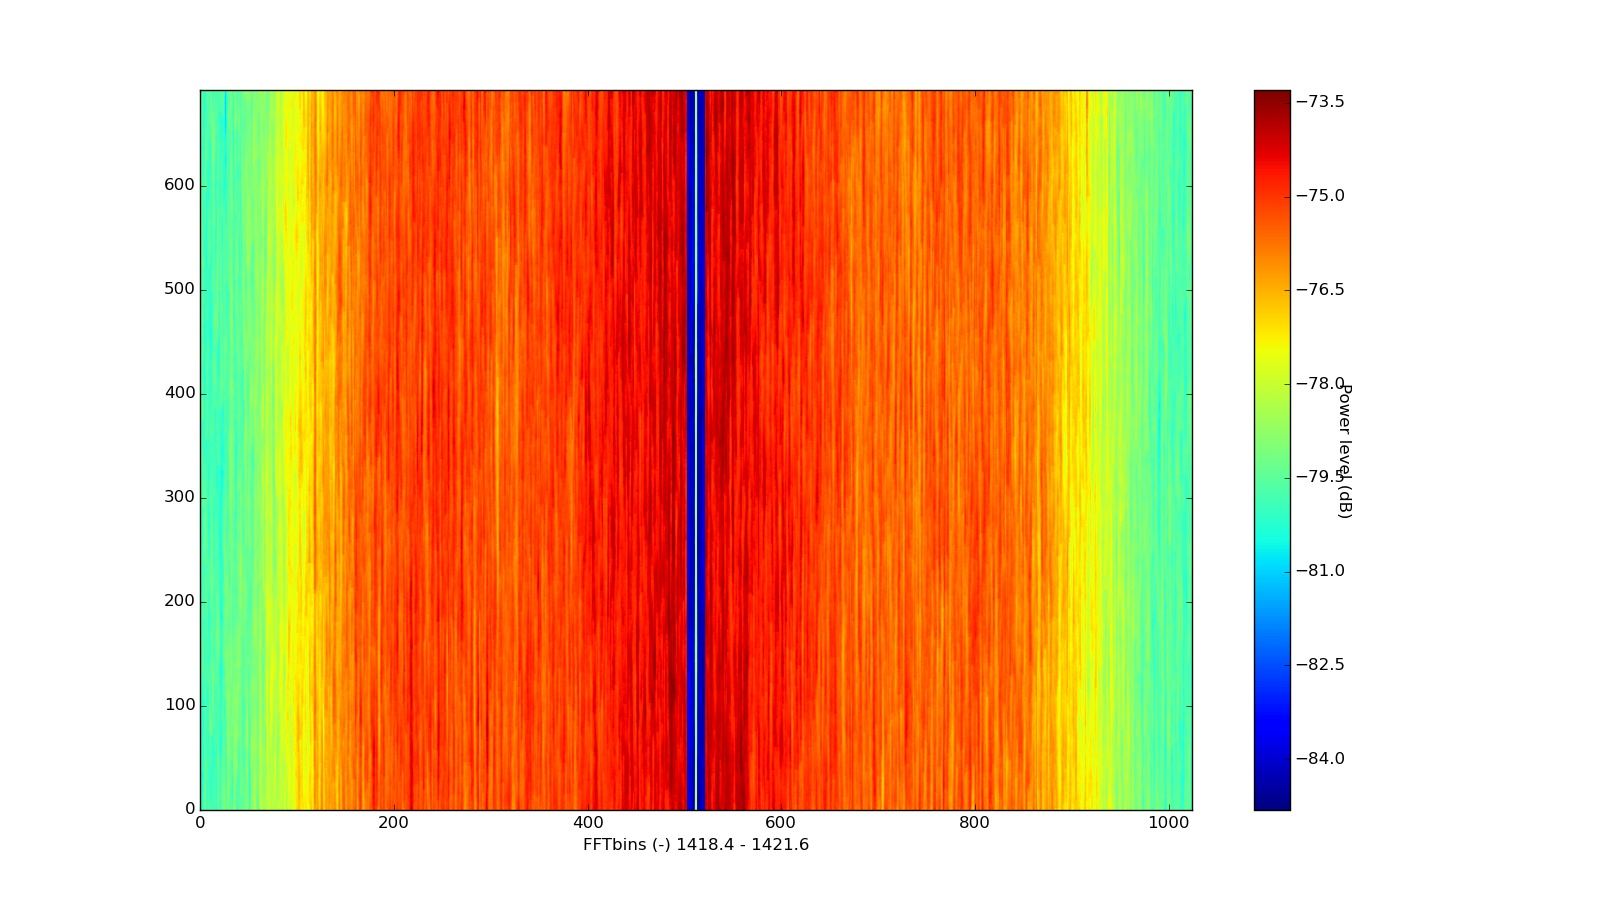
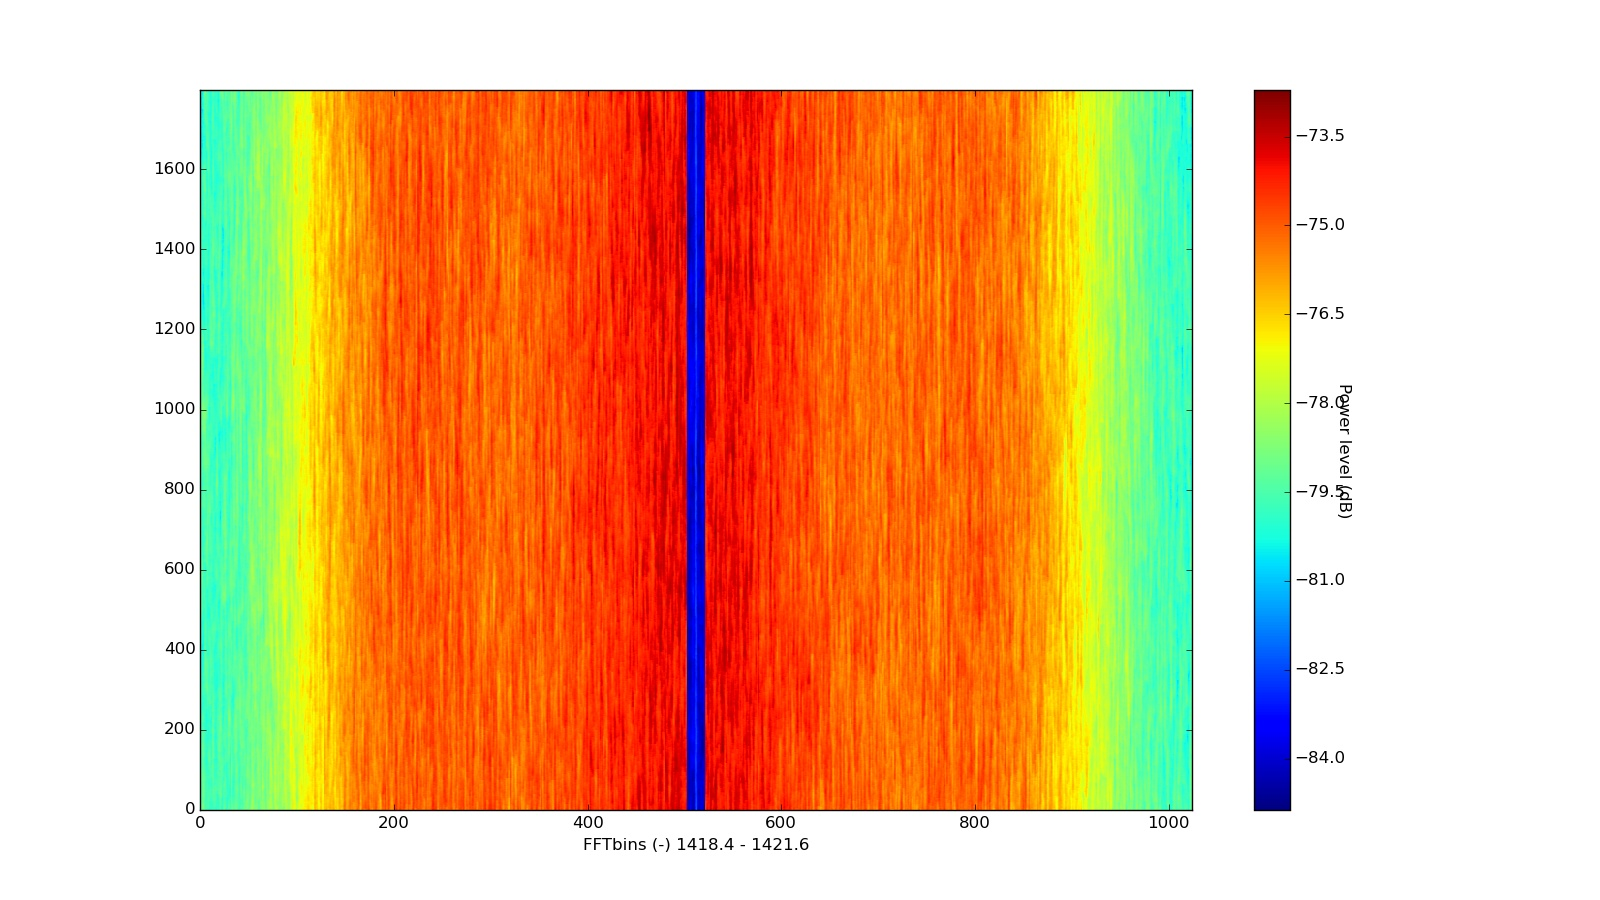
Another update

diff --git a/heatmap.py b/heatmap.py
@@ -39,20 +39,20 @@ if StopRowAvg > NumRowsInFile:
 print('Reading file: '+DataFile)
 print('Number of rows in file: '+str(NumRowsInFile))
 data = data.reshape(NumRowsInFile,FFTSize)
-
+data = data[list(range(StartRowAvg,StopRowAvg)),:]
+NumRowsPlot = StopRowAvg - StartRowAvg
 fig, ax = plt.subplots(1,1,figsize=(1600/my_dpi, 900/my_dpi), dpi=my_dpi)
 heatmap = ax.pcolor(data, cmap=plt.cm.jet)
 cbar = plt.colorbar(heatmap) # Colorbar title
 cbar.set_label('Power level (dB)', rotation=270) # Colorbar
 x1,x2,y1,y2 = plt.axis() # Change limits
-plt.axis((x1,FFTSize,y1,NumRowsInFile)) # Change limits
+plt.axis((x1,FFTSize,y1,NumRowsPlot)) # Change limits
 plt.xlabel('FFTbins (-) '+str(StartFreq)+' - '+ str(StopFreq))
 fig.savefig('data_heatmap.jpg')
 
 # Plot average of x rows
 fig = plt.figure(figsize=(1275/my_dpi, 900/my_dpi), dpi=my_dpi)
-cut = data[list(range(StartRowAvg,StopRowAvg)),:]
-meandata = np.mean(cut, axis=0)
+meandata = np.mean(data, axis=0)
 dum = range(0,FFTSize)
 x = [(x*RBW+StartFreq*1e6)/1e6 for x in dum]
 plt.plot(x,meandata)
